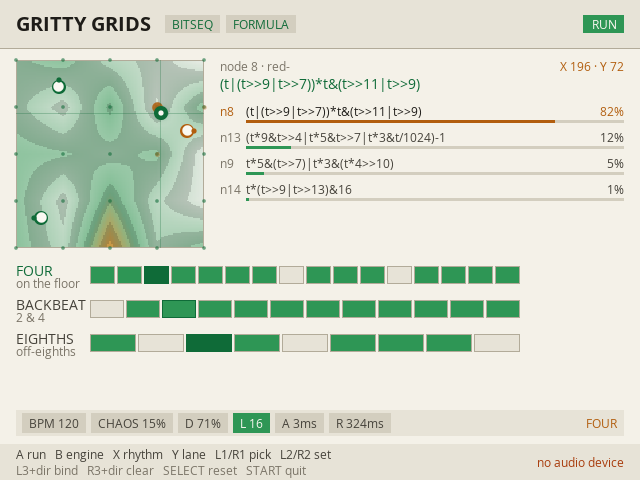
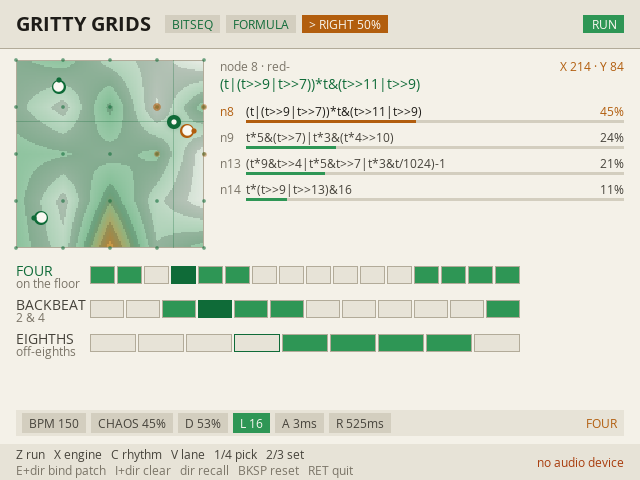
Destinations hold a patch, not a place
A bound direction stored the puck's X/Y and nothing else, which is the
lesser half of the idea: the map sets the pattern, but the lane controls
are what make it a sound. A destination is now a whole patch -- position,
BPM, Chaos, both engine switches, and all five controls on each of the
three lanes.

Recall glides every value rather than just the puck, so it is a morph
between two patches and the sweep through the middle is itself worth
hearing. Duration follows the distance between 0.18s and 0.9s, eased at
both ends. The two switches cannot be interpolated, so they snap at the
start and the destination's engine carries the morph. The stick still
interrupts, which now leaves every value halfway between two patches --
a patch you did not have, and one you can bind to another direction.

Also: with no pad attached the footer names keyboard keys instead of pad
buttons. It read "L1/R1 pick" at someone holding a keyboard, which is
precisely when that hint is load-bearing, and the README now says how to
reach the controls the strip does not show.

The --shots fixture binds a destination whose parameters differ and
freezes it mid-morph, so the committed screenshot shows BPM 150 between
120 and 180, Chaos 45% between 30 and 150, and the puck at the midpoint
-- the morph is demonstrated rather than asserted.

The arrow glyph in the new HUD pill went the same way as the marker
arrows: Open Sans has neither, so it is ASCII.

diff --git a/sndstation/main.cpp b/sndstation/main.cpp
@@ -169,21 +169,89 @@ std::string ctlValue(const Ctl& c) {
 }
 
 // ── destinations on the D-pad ──
-// The D-pad starts out as a slow nudge, which is what you want while the map
-// is unfamiliar. Once you know where the good patterns are, the four
-// directions become waypoints: hold L3 and press a direction to bind the
-// puck's current position to it, and from then on that direction travels
-// there instead of nudging. L3 was free, and so was R3, which unbinds.
+// A destination is a whole patch, not a place: the puck's position and every
+// parameter — BPM, Chaos, both engine switches, and all five controls on each
+// of the three lanes. Binding the position alone turned out to be the lesser
+// half of the idea, since the map only sets the pattern and the lane controls
+// are what make it a sound.
 //
-// Travel is a glide, not a jump. Sweeping through the intermediate blends is
-// most of what the map is for, and cutting straight to the destination throws
-// away the part worth hearing. The stick interrupts a glide at any point, so
-// the waypoint is a starting gesture rather than a mode you are stuck in.
-struct Dest { bool set = false; int x = 0, y = 0; };
-Dest g_dest[4];                        // Up, Down, Left, Right
-int  g_travel = -1;                    // slot being travelled to, -1 = none
-int  g_bindHint = 0;                   // 0 none, 1 binding, 2 clearing
-constexpr float TRAVEL_RATE = 620.0f;  // map units a second (255 in ~0.4s)
+// Hold L3 and press a direction to bind the current state to it; R3 and a
+// direction unbinds. A bound direction then travels there, and travel is a
+// glide rather than a jump — the continuous values ramp together, so a recall
+// is a morph between two patches and the sweep is itself worth hearing. The
+// two switches (engine, rhythm source) cannot be interpolated, so they snap at
+// the start and you hear the destination's engine while the rest arrives.
+//
+// The stick interrupts a glide at any point, which leaves every value halfway
+// between the two patches. That is a feature: half of a morph is a patch you
+// did not have.
+struct Snap {
+    bool set = false;
+    int  x = 128, y = 128, bpm = 120, chaos = 30, mode = 0, rhythm = 0;
+    int  dens[3]{}, len[3]{}, atk[3]{}, rel[3]{}, prob[3]{};
+};
+Snap  g_dest[4];                       // Up, Down, Left, Right
+Snap  g_from;                          // where a glide started
+int   g_travel = -1;                   // slot being travelled to, -1 = none
+float g_travelT = 0, g_travelDur = 0;
+int   g_bindHint = 0;                  // 0 none, 1 binding, 2 clearing
+constexpr float TRAVEL_RATE = 620.0f;  // map units a second, before clamping
+
+Snap captureSnap() {
+    Snap s;
+    s.set = true;
+    s.x = g_params.x.load();     s.y      = g_params.y.load();
+    s.bpm = g_params.bpm.load(); s.chaos  = g_params.chaos.load();
+    s.mode = g_params.mode.load(); s.rhythm = g_params.rhythm.load();
+    for (int i = 0; i < 3; ++i) {
+        s.dens[i] = g_params.dens[i].load(); s.len[i]  = g_params.len[i].load();
+        s.atk[i]  = g_params.atk[i].load();  s.rel[i]  = g_params.rel[i].load();
+        s.prob[i] = g_params.prob[i].load();
+    }
+    return s;
+}
+int mix(int a, int b, float t) { return int(std::lround(a + (b - a) * double(t))); }
+
+// Everything that can be ramped. x and y are handled by the caller, which owns
+// the puck's float position and has to keep the stick in step with it.
+void applySnapMix(const Snap& a, const Snap& b, float t) {
+    g_params.bpm.store(mix(a.bpm, b.bpm, t));
+    g_params.chaos.store(mix(a.chaos, b.chaos, t));
+    for (int i = 0; i < 3; ++i) {
+        g_params.dens[i].store(mix(a.dens[i], b.dens[i], t));
+        g_params.len[i].store(mix(a.len[i],  b.len[i],  t));
+        g_params.atk[i].store(mix(a.atk[i],  b.atk[i],  t));
+        g_params.rel[i].store(mix(a.rel[i],  b.rel[i],  t));
+        g_params.prob[i].store(mix(a.prob[i], b.prob[i], t));
+    }
+}
+
+// On a handheld the pad's own labels are right. On a desktop with no pad
+// attached they are a lie — the footer said "L1/R1 pick" at someone pressing
+// keys, which is exactly the hint they needed and could not use.
+bool g_padPresent = false;
+const char* btn(pad::Button b) {
+    if (g_padPresent) return pad::label(b);
+    switch (b) {
+        case pad::East:   return "Z";
+        case pad::South:  return "X";
+        case pad::North:  return "C";
+        case pad::West:   return "V";
+        case pad::L1:     return "1";
+        case pad::R1:     return "4";
+        case pad::L2:     return "2";
+        case pad::R2:     return "3";
+        case pad::L3:     return "E";
+        case pad::R3:     return "I";
+        case pad::Select: return "BKSP";
+        case pad::Start:  return "RET";
+        default:          return pad::label(b);
+    }
+}
+const char* slotName(int slot) {
+    static const char* n[4] = {"UP", "DOWN", "LEFT", "RIGHT"};
+    return (slot >= 0 && slot < 4) ? n[slot] : "";
+}
 
 int destSlot(pad::Button b) {
     switch (b) {
@@ -200,7 +268,7 @@ void destPip(int slot, float& dx, float& dy) {
     const float v[4][2] = {{0, -1}, {0, 1}, {-1, 0}, {1, 0}};
     dx = v[slot][0]; dy = v[slot][1];
 }
-void clearDests() { for (Dest& d : g_dest) d = Dest{}; g_travel = -1; }
+void clearDests() { for (Snap& d : g_dest) d = Snap{}; g_travel = -1; }
 
 // ── the topographic heat field ──
 // Static: the node set never changes, so the field is rasterized once into a
@@ -473,6 +541,17 @@ void draw(SDL_Renderer* r, const AudioOut& out, float dt) {
         gfx::textMid(r, Font::Small, p, hx + tw / 2, HUD_H / 2, P.phos, 0);
         hx += tw + su(6);
     }
+    if (g_travel >= 0) {
+        char t[32];
+        const float u = g_travelDur > 0 ? g_travelT / g_travelDur : 1.0f;
+        std::snprintf(t, sizeof t, "> %s %d%%", slotName(g_travel),
+                      int(std::lround((u > 1 ? 1 : u) * 100)));
+        const int tw = gfx::textWidth(Font::Small, t) + su(14);
+        gfx::fillRect(r, {hx, HUD_H / 2 - su(9), tw, su(18)}, P.amber);
+        gfx::textMid(r, Font::Small, t, hx + tw / 2, HUD_H / 2, P.screen, 0);
+        hx += tw + su(6);
+    }
+
     const char* tr = running ? "RUN" : "STOP";
     const int trw = gfx::textWidth(Font::Small, tr) + su(16);
     gfx::fillRect(r, {SCREEN_W - su(16) - trw, HUD_H / 2 - su(9), trw, su(18)},
@@ -495,14 +574,16 @@ void draw(SDL_Renderer* r, const AudioOut& out, float dt) {
     // footer
     const int fy = SCREEN_H - FOOTER_H;
     gfx::fillRect(r, {0, fy, SCREEN_W, FOOTER_H}, P.bg1);
-    const std::string row1 = std::string(pad::label(pad::East)) + " run   " +
-                             pad::label(pad::South) + " engine   " +
-                             pad::label(pad::North) + " rhythm   " +
-                             pad::label(pad::West) + " lane   L1/R1 pick   L2/R2 set";
-    const std::string row2 = std::string(pad::label(pad::L3)) + "+dir bind   " +
-                             pad::label(pad::R3) + "+dir clear   " +
-                             pad::label(pad::Select) + " reset   " +
-                             pad::label(pad::Start) + " quit";
+    const std::string row1 = std::string(btn(pad::East)) + " run   " +
+                             btn(pad::South) + " engine   " +
+                             btn(pad::North) + " rhythm   " +
+                             btn(pad::West) + " lane   " +
+                             btn(pad::L1) + "/" + btn(pad::R1) + " pick   " +
+                             btn(pad::L2) + "/" + btn(pad::R2) + " set";
+    const std::string row2 = std::string(btn(pad::L3)) + "+dir bind patch   " +
+                             btn(pad::R3) + "+dir clear   dir recall   " +
+                             btn(pad::Select) + " reset   " +
+                             btn(pad::Start) + " quit";
     gfx::textMid(r, Font::Small, row1, su(16), fy + FOOTER_H / 2 - su(8), P.txt1);
     gfx::textMid(r, Font::Small, row2, su(16), fy + FOOTER_H / 2 + su(8), P.txt2);
     if (out.deviceOpen()) {
@@ -579,6 +660,8 @@ int main(int argc, char** argv) {
     Window win;
     if (!win.open(wo)) return 1;
     buildField(win.renderer);
+    // with no pad attached the player is on the keyboard, so name the keys
+    g_padPresent = SDL_NumJoysticks() > 0;
 
     AudioOut out;
     const AudioOut::Settings set = AudioOut::loadSettings();
@@ -612,10 +695,17 @@ int main(int argc, char** argv) {
             g_cursor = s.cursor;
             clearDests();
             if (s.dests) {
-                g_dest[0] = {true,  58,  36};      // Up
-                g_dest[2] = {true,  34, 214};      // Left
-                g_dest[3] = {true, 232,  96};      // Right
-                g_travel = 3;                      // travelling to Right
+                Snap a = captureSnap(); a.x =  58; a.y =  36; g_dest[0] = a;
+                Snap b = captureSnap(); b.x =  34; b.y = 214; g_dest[2] = b;
+                Snap c = captureSnap(); c.x = 232; c.y =  96;
+                c.bpm = 180; c.chaos = 150;             // a patch, not a place
+                for (int i = 0; i < 3; ++i) { c.dens[i] = 90; c.rel[i] = 70; }
+                g_dest[3] = c;
+                g_from = captureSnap();
+                g_travel = 3; g_travelDur = 1.0f; g_travelT = 0.5f;
+                applySnapMix(g_from, c, 0.5f);          // caught mid-morph
+                g_params.x.store(mix(g_from.x, c.x, 0.5f));
+                g_params.y.store(mix(g_from.y, c.y, 0.5f));
             }
             if (!ctlLive(g_ctl[g_cursor])) moveCursor(1);
             if (s.run) {                       // let the engine put something on the grid
@@ -689,13 +779,30 @@ int main(int argc, char** argv) {
                         const int slot = destSlot(ev[i].b);
                         if (slot < 0) break;
                         if (st.down(pad::L3)) {
-                            g_dest[slot] = {true, g_params.x.load(), g_params.y.load()};
+                            g_dest[slot] = captureSnap();
                             g_travel = -1;
                         } else if (st.down(pad::R3)) {
-                            g_dest[slot] = Dest{};
+                            g_dest[slot] = Snap{};
                             if (g_travel == slot) g_travel = -1;
                         } else if (g_dest[slot].set) {
+                            const Snap& d = g_dest[slot];
+                            g_from = captureSnap();
                             g_travel = slot;
+                            g_travelT = 0;
+                            // a long hop takes longer, within reason
+                            const float dx = float(d.x - g_from.x), dy = float(d.y - g_from.y);
+                            const float dist = std::sqrt(dx * dx + dy * dy);
+                            g_travelDur = dist / TRAVEL_RATE;
+                            if (g_travelDur < 0.18f) g_travelDur = 0.18f;
+                            if (g_travelDur > 0.90f) g_travelDur = 0.90f;
+                            // the two switches cannot be interpolated: snap them
+                            // now, so the destination's engine carries the morph
+                            if (d.mode != g_from.mode) {
+                                g_params.mode.store(d.mode);
+                                g_engine.rewind();
+                            }
+                            g_params.rhythm.store(d.rhythm);
+                            if (!ctlLive(g_ctl[g_cursor])) moveCursor(1);
                         }
                         break;
                     }
@@ -723,17 +830,17 @@ int main(int argc, char** argv) {
         puckX += st.lx * speed * dt;
         puckY -= st.ly * speed * dt;   // stick y is positive up; the map is not
         if (g_travel >= 0) {
-            const Dest& d = g_dest[g_travel];
-            const float ddx = float(d.x) - puckX, ddy = float(d.y) - puckY;
-            const float dist = std::sqrt(ddx * ddx + ddy * ddy);
-            const float stepLen = TRAVEL_RATE * dt;
-            if (dist <= stepLen) {
-                puckX = float(d.x);
-                puckY = float(d.y);
+            const Snap& d = g_dest[g_travel];
+            g_travelT += dt;
+            float u = g_travelDur > 0 ? g_travelT / g_travelDur : 1.0f;
+            if (u > 1.0f) u = 1.0f;
+            const float e = u * u * (3.0f - 2.0f * u);     // ease in and out
+            puckX = float(g_from.x) + (float(d.x) - float(g_from.x)) * e;
+            puckY = float(g_from.y) + (float(d.y) - float(g_from.y)) * e;
+            applySnapMix(g_from, d, e);
+            if (u >= 1.0f) {
                 g_travel = -1;
-            } else {
-                puckX += ddx / dist * stepLen;
-                puckY += ddy / dist * stepLen;
+                if (!ctlLive(g_ctl[g_cursor])) moveCursor(1);
             }
         } else if (!g_bindHint) {
             if (st.down(pad::Left)  && !g_dest[2].set) puckX -= speed * dt;

diff --git a/sndstation/README.md b/sndstation/README.md
@@ -20,7 +20,8 @@ ratchets, and Chaos.
 
 *Bitseq, Formula rhythm: the puck sits between four programs, the readout names them and
 their weights, and the three tracks are running at 16 / 12 / 9. The three rings on the map
-are destinations bound to D-pad directions — the amber one is being travelled to.
+are patches bound to D-pad directions — the amber one is being morphed to, half way
+there, with BPM, Chaos and the lane controls all part way between the two.
 ([Bit voice](docs/voice-formula.png) adds a 1-bit trace per lane;
 [`--dark`](docs/bitseq-formula-dark.png) is the demo's phosphor.)*
 
@@ -54,8 +55,8 @@ The puck is the instrument; everything else is a modifier.
 | | |
 |---|---|
 | **Left stick** | move the puck — this is the whole gesture |
-| **D-pad** | move the puck, slower — until a destination is bound to that direction |
-| **L3 + a direction** | bind the puck's spot to that D-pad direction |
+| **D-pad** | move the puck, slower — until a patch is bound to that direction |
+| **L3 + a direction** | bind the whole patch to that D-pad direction |
 | **R3 + a direction** | unbind it |
 | **A** | Run / Stop (a run always starts at pulse 0) |
 | **B** | engine: Bitseq / Bit voice |
@@ -68,24 +69,41 @@ The puck is the instrument; everything else is a modifier.
 
 ### Destinations
 
-The D-pad nudges the puck, which is what you want while the map is unfamiliar. Once you
-know where the good patterns are, the four directions can hold them: hold **L3** and press
-a direction to bind the puck's current position to it, and that direction travels there
-from then on. **R3** and a direction unbinds it. Bound spots show on the map as rings
-with a pip on the side they answer to, amber while one is being travelled to.
+A destination is a **whole patch, not a place**: the puck's position *and* every
+parameter — BPM, Chaos, both engine switches, and all five controls on each of the three
+lanes. Hold **L3** and press a direction to bind the current state to it; **R3** and a
+direction unbinds. Press a bound direction and the instrument travels there. **SELECT**
+clears all four along with the rest of the reset; nothing is written to disk.
 
-Travel is a glide, not a jump — sweeping through the intermediate blends is most of what
-the map is for, and cutting straight there throws away the part worth hearing. The stick
-interrupts a glide at any point, so a destination is a gesture you start rather than a
-mode you are stuck in. Destinations live in the session; nothing is written to disk.
+Travel is a glide, not a jump, and it glides *everything*. A recall is a morph between
+two patches, and the sweep through the middle is itself worth hearing — cutting straight
+to the destination throws that away. A long hop takes longer than a short one, between
+0.18 and 0.9 seconds, eased at both ends. The engine and rhythm-source switches cannot be
+interpolated, so they snap at the start and the destination's engine carries the morph.
 
-Controls the current mode has no use for are skipped: **L** (track length) only exists
-in Formula, **P** only in Bit voice, exactly as the web demo hides them. **D** is density
-in Bitseq and pitch in Bit voice, and reads out in the right units for each.
+The stick interrupts a glide at any point, which leaves every value halfway between the
+two patches. That is the point rather than a wrinkle: half of a morph is a patch you did
+not have, and you can bind *that* to another direction.
+
+Bound patches show on the map as rings at their stored position, with a pip on the side
+they answer to, amber for the one being travelled to; the HUD shows how far along the
+morph is. The pip is drawn geometry rather than an `↑`, because Open Sans has no arrow
+glyphs at this size — worth knowing before anyone simplifies it back to a character.
+
+### Reaching the rest of the controls
+
+Only BPM, Chaos and the focused lane's five are on the strip at once. **L1 / R1** walk the
+whole list, crossing into the next lane when they run out; **Y** jumps straight to the
+next lane. A control the current mode has no use for is skipped rather than shown dead:
+**L** (track length) only exists in Formula, **P** only in Bit voice. **D** is density in
+Bitseq and pitch in Bit voice, and reads out in the right units for each.
 
 On a desktop the keyboard is a full pad (sndstation's own fallback): arrows for the
 D-pad, **Z** and **X** for A and B, **C** and **V** for X and Y, **1**/**4** for L1/R1,
 **2**/**3** for L2/R2, **E** and **I** for L3/R3, **Backspace** reset, **Return** quit.
+With no pad attached the footer names those keys rather than the pad's buttons — it used
+to say "L1/R1 pick" to someone holding a keyboard, which is the one moment the hint
+mattered.
 
 ## Building
 
